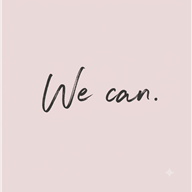
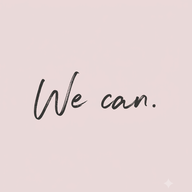
アイコンを「We can.」に変更し、データの引っこし機能を追加
アイコンは元画像を寄せてトリミング。maskable対応にしてAndroidで全面表示になるようにした。
公開先を移すとlocalStorageが引き継がれないので、5つのキーをJSONで
書き出し・読み込みできるパネルを下部に追加した（バックアップも兼ねる）。

Changed region(s): [[0.1562, 0.3438, 0.5, 0.625], [0.5, 0.4375, 0.8438, 0.5938]]

diff --git a/index.html b/index.html
@@ -139,6 +139,16 @@
   .fanswer.hidden{filter:blur(8px)}
   .fbtns{display:grid;grid-template-columns:1fr 1fr 1fr;gap:8px;margin-top:12px}
   .fmsg{text-align:center;color:var(--good);font-size:13px;min-height:18px;margin-top:8px}
+  /* データの引っこし（書き出し・読み込み） */
+  .datapanel{margin-top:22px;background:var(--paper);border:1px solid var(--line);border-radius:14px;padding:12px 14px}
+  .datapanel summary{cursor:pointer;color:var(--sub);font-size:13px;font-weight:700;list-style:none}
+  .datapanel summary::-webkit-details-marker{display:none}
+  .datapanel summary::before{content:"＋ ";color:var(--pink)}
+  .datapanel[open] summary::before{content:"− "}
+  .dnote{color:var(--muted);font-size:12px;line-height:1.7;margin:10px 0}
+  .dbtns{display:grid;grid-template-columns:1fr 1fr 1fr;gap:8px}
+  .dbtn{padding:9px 0;border:1px solid var(--line);border-radius:10px;background:var(--pinksoft);color:var(--ink);font-family:inherit;font-size:13px;font-weight:700}
+  .dbox{width:100%;height:96px;margin-top:10px;padding:8px;border:1px solid var(--line);border-radius:10px;background:#fff;color:var(--ink);font-family:inherit;font-size:12px;resize:vertical}
 </style>
 </head>
 <body>
@@ -249,6 +259,18 @@
   <div class="note" style="margin-top:8px">
     日本語を見て2秒で声に出す → 「話す（採点）」で発音を採点 → 「お手本を聞く」で答え合わせ。
   </div>
+
+  <details class="datapanel">
+    <summary>データの引っこし（書き出し・読み込み）</summary>
+    <p class="dnote">アプリのURLが変わると、定着度・苦手リスト・日記などは引き継がれません。引っこす前に「書き出す」→「コピー」、新しいURLで貼り付けて「読み込む」を押してください。ふだんのバックアップにも使えます。</p>
+    <div class="dbtns">
+      <button id="dExport" class="dbtn">書き出す</button>
+      <button id="dCopy" class="dbtn">コピー</button>
+      <button id="dImport" class="dbtn">読み込む</button>
+    </div>
+    <textarea id="dBox" class="dbox" placeholder="「書き出す」を押すと、ここにデータが出ます。読み込むときは、ここに貼り付けてから「読み込む」を押します。"></textarea>
+    <div id="dMsg" class="fmsg"></div>
+  </details>
 </div>
 
 <script>
@@ -2886,6 +2908,45 @@ $("btnMic").onclick=()=>{
   try{rec.start();}catch(e){recording=false;$("btnMic").classList.remove("rec");$("btnMic").textContent="話す（採点）";}
 };
 load(); renderStats(); updateWeakCount();
+
+/* ---- データの引っこし ----
+   localStorage はURL（ドメイン）ごとに分かれているので、公開先を移すと学習データは付いてこない。
+   5つのキーをまとめてJSONにして、手で持ち運べるようにする。バックアップも兼ねる。 */
+(function(){
+  const KEYS=["mastery_v1","weak_v1","daily_v1","diary_v1","phrases_v1"];
+  const box=$("dBox"), msg=$("dMsg");
+  const tell=(t,ok)=>{ msg.textContent=t; msg.style.color=(ok===false)?"var(--bad)":"var(--good)"; };
+  $("dExport").onclick=()=>{
+    const out={_app:"eigo",_at:new Date().toISOString(),data:{}};
+    let n=0;
+    KEYS.forEach(k=>{ const v=localStorage.getItem(k); if(v!==null){ out.data[k]=v; n++; } });
+    box.value=JSON.stringify(out);
+    tell(n===0?"保存されている学習データがまだありません。":n+"個のデータを書き出しました。「コピー」を押して、新しいURLで読み込んでください。", n>0);
+  };
+  $("dCopy").onclick=()=>{
+    if(!box.value){ tell("先に「書き出す」を押してください。",false); return; }
+    box.select(); box.setSelectionRange(0,999999);
+    if(navigator.clipboard&&navigator.clipboard.writeText){
+      navigator.clipboard.writeText(box.value)
+        .then(()=>tell("コピーしました。"))
+        .catch(()=>tell("コピーできませんでした。枠を長押しして選んでコピーしてください。",false));
+    }else{
+      try{ document.execCommand("copy"); tell("コピーしました。"); }
+      catch(e){ tell("枠を長押しして選んでコピーしてください。",false); }
+    }
+  };
+  $("dImport").onclick=()=>{
+    const t=box.value.trim();
+    if(!t){ tell("先に、書き出したデータを貼り付けてください。",false); return; }
+    let o; try{ o=JSON.parse(t); }catch(e){ tell("データの形が違います。全部そのまま貼り付けられているか確認してください。",false); return; }
+    if(!o||!o.data){ tell("このアプリの書き出しデータではないようです。",false); return; }
+    if(!confirm("今このURLに入っている学習データを、貼り付けた内容で上書きします。よろしいですか？")) return;
+    let n=0;
+    KEYS.forEach(k=>{ if(typeof o.data[k]==="string"){ localStorage.setItem(k,o.data[k]); n++; } });
+    tell(n+"個のデータを読み込みました。画面を作り直します。");
+    setTimeout(()=>location.reload(),900);
+  };
+})();
 </script>
 </body>
 </html>
